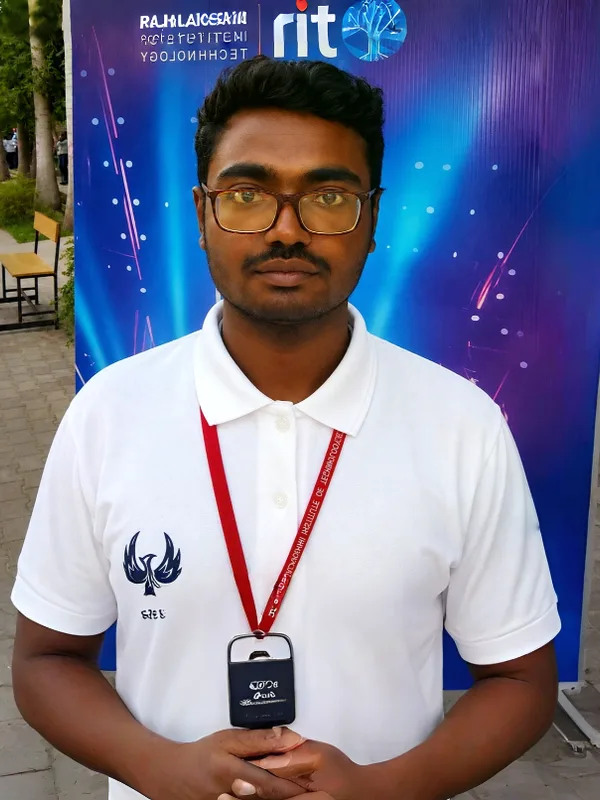
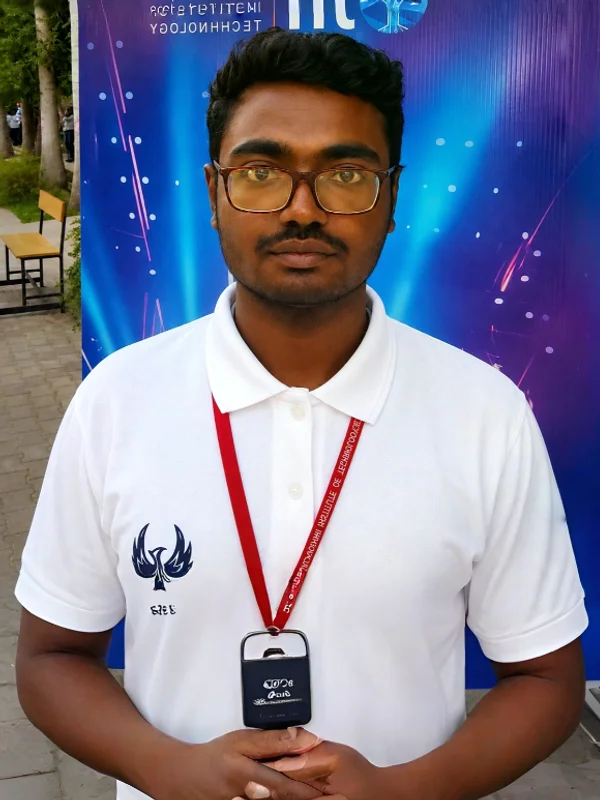
fix(members): resolve mobile card overflow and image alignment issues

diff --git a/src/components/CoreMembers.tsx b/src/components/CoreMembers.tsx
@@ -150,7 +150,7 @@ export const CoreMembers: React.FC = () => {
             </h3>
           </div>
 
-          <div className="grid grid-cols-2 sm:grid-cols-2 md:grid-cols-3 lg:grid-cols-4 xl:grid-cols-5 gap-3.5 sm:gap-4 lg:gap-5">
+          <div className="grid grid-cols-2 sm:grid-cols-2 md:grid-cols-3 lg:grid-cols-4 xl:grid-cols-5 gap-3 sm:gap-4 lg:gap-5">
             {studentMembers.map((member, idx) => {
               const roleGradient = getRoleGradient(member.domain, member.position);
               const linkedinUrl = member.linkedin || `https://www.linkedin.com/search/results/all/?keywords=${encodeURIComponent(member.name + ' Rajalakshmi Institute of Technology IETE')}`;
@@ -162,7 +162,7 @@ export const CoreMembers: React.FC = () => {
                   whileInView={{ opacity: 1, y: 0 }}
                   viewport={{ once: true }}
                   transition={{ duration: 0.35, delay: idx * 0.03 }}
-                  className="group relative rounded-2xl sm:rounded-3xl overflow-hidden bg-slate-950 border border-slate-800/90 shadow-soft hover:shadow-[0_10px_30px_-5px_rgba(59,130,246,0.3)] hover:border-blue-500/50 hover:-translate-y-1 transition-all duration-300 flex flex-col justify-between aspect-[3/3.9] min-h-[260px] sm:min-h-[290px]"
+                  className="group relative rounded-2xl sm:rounded-3xl overflow-hidden bg-slate-950 border border-slate-800/90 shadow-soft hover:shadow-[0_10px_30px_-5px_rgba(59,130,246,0.3)] hover:border-blue-500/50 hover:-translate-y-1 transition-all duration-300 flex flex-col justify-between aspect-[3/4.2] sm:aspect-[3/4.2] min-w-0 w-full"
                 >
                   {/* Portrait Canvas */}
                   <div className="absolute inset-0 overflow-hidden">
@@ -175,7 +175,7 @@ export const CoreMembers: React.FC = () => {
                       />
                     ) : (
                       /* Clean Cyber Gradient Canvas for members without photo */
-                      <div className="w-full h-full bg-gradient-to-b from-slate-900 via-slate-950 to-slate-950 relative flex flex-col items-center justify-center p-4 overflow-hidden">
+                      <div className="w-full h-full bg-gradient-to-b from-slate-900 via-slate-950 to-slate-950 relative flex flex-col items-center justify-center p-3 sm:p-4 overflow-hidden">
                         {/* Dot pattern */}
                         <div 
                           className="absolute inset-0 opacity-15 pointer-events-none"
@@ -187,9 +187,9 @@ export const CoreMembers: React.FC = () => {
 
                         {/* Central Monogram */}
                         <div className="relative z-10 flex flex-col items-center justify-center">
-                          <div className="w-16 h-16 sm:w-20 sm:h-20 rounded-2xl bg-white/10 backdrop-blur-md border border-white/15 p-1 flex items-center justify-center shadow-lg group-hover:scale-105 transition-transform duration-500">
+                          <div className="w-14 h-14 sm:w-20 sm:h-20 rounded-2xl bg-white/10 backdrop-blur-md border border-white/15 p-1 flex items-center justify-center shadow-lg group-hover:scale-105 transition-transform duration-500">
                             <div className={`w-full h-full rounded-[14px] bg-gradient-to-tr ${roleGradient} flex items-center justify-center shadow-inner`}>
-                              <span className="font-heading font-black text-xl sm:text-2xl text-white tracking-wider">
+                              <span className="font-heading font-black text-lg sm:text-2xl text-white tracking-wider">
                                 {getInitials(member.name)}
                               </span>
                             </div>
@@ -199,28 +199,28 @@ export const CoreMembers: React.FC = () => {
                     )}
 
                     {/* Subtle Top & Bottom Gradient Vignettes */}
-                    <div className="absolute inset-x-0 top-0 h-14 bg-gradient-to-b from-slate-950/40 to-transparent z-10 pointer-events-none" />
-                    <div className="absolute inset-x-0 bottom-0 h-40 bg-gradient-to-t from-slate-950 via-slate-950/85 to-transparent z-10 pointer-events-none" />
+                    <div className="absolute inset-x-0 top-0 h-10 sm:h-14 bg-gradient-to-b from-slate-950/40 to-transparent z-10 pointer-events-none" />
+                    <div className="absolute inset-x-0 bottom-0 h-28 sm:h-36 bg-gradient-to-t from-slate-950 via-slate-950/85 to-transparent z-10 pointer-events-none" />
                   </div>
 
                   {/* TOP AREA: Empty to leave faces 100% unobstructed */}
                   <div className="relative z-20" />
 
                   {/* BOTTOM IDENTITY OVERLAY: Name, Role, Department & LinkedIn */}
-                  <div className="relative z-20 p-3.5 sm:p-4 space-y-1.5 sm:space-y-2">
+                  <div className="relative z-20 p-2.5 sm:p-4 space-y-1 sm:space-y-1.5">
                     {/* Name & Role */}
                     <div className="space-y-0.5">
-                      <h4 className="font-heading font-black text-sm sm:text-base text-white uppercase tracking-wider leading-tight drop-shadow-[0_2px_8px_rgba(0,0,0,0.9)] group-hover:text-cyan-200 transition-colors line-clamp-1">
+                      <h4 className="font-heading font-black text-xs sm:text-base text-white uppercase tracking-wider leading-tight drop-shadow-[0_2px_8px_rgba(0,0,0,0.9)] group-hover:text-cyan-200 transition-colors truncate">
                         {member.name}
                       </h4>
-                      <p className="text-[10px] sm:text-[11px] font-extrabold uppercase tracking-wider text-cyan-400 drop-shadow-[0_1px_4px_rgba(0,0,0,0.9)] truncate">
+                      <p className="text-[9px] sm:text-[11px] font-extrabold uppercase tracking-wider text-cyan-400 drop-shadow-[0_1px_4px_rgba(0,0,0,0.9)] truncate">
                         {member.position}
                       </p>
                     </div>
 
                     {/* Department Badge & LinkedIn Button */}
-                    <div className="flex items-center justify-between gap-1.5 pt-1 border-t border-white/10">
-                      <span className="text-[10px] font-semibold text-slate-200 bg-white/10 backdrop-blur-md px-2.5 py-0.5 rounded-full border border-white/15 shadow-sm truncate max-w-[125px]">
+                    <div className="flex items-center justify-between gap-1.5 pt-1 border-t border-white/10 min-w-0">
+                      <span className="text-[9px] sm:text-[10px] font-semibold text-slate-200 bg-white/10 backdrop-blur-md px-2 sm:px-2.5 py-0.5 rounded-full border border-white/15 shadow-sm truncate flex-1 min-w-0">
                         {member.department}
                       </span>
                       {linkedinUrl && (
@@ -228,10 +228,10 @@ export const CoreMembers: React.FC = () => {
                           href={linkedinUrl}
                           target="_blank"
                           rel="noopener noreferrer"
-                          className="w-7 h-7 rounded-lg bg-white/10 hover:bg-[#0A66C2] text-sky-400 hover:text-white border border-white/15 backdrop-blur-md flex items-center justify-center shrink-0 transition-all duration-200 shadow-sm hover:shadow-[0_0_10px_rgba(10,102,194,0.6)]"
+                          className="w-6 h-6 sm:w-7 sm:h-7 rounded-lg bg-white/10 hover:bg-[#0A66C2] text-sky-400 hover:text-white border border-white/15 backdrop-blur-md flex items-center justify-center shrink-0 transition-all duration-200 shadow-sm hover:shadow-[0_0_10px_rgba(10,102,194,0.6)]"
                           title={`LinkedIn profile of ${member.name}`}
                         >
-                          <Linkedin className="w-3 h-3 fill-current" />
+                          <Linkedin className="w-2.5 h-2.5 sm:w-3 sm:h-3 fill-current" />
                         </a>
                       )}
                     </div>

diff --git a/index.html b/index.html
@@ -379,7 +379,7 @@
           "publisher": {
             "@id": "https://iete-rit.vercel.app/#organization"
           },
-          "image": "https://iete-rit.vercel.app/images/events/iete-office-bearers-inauguration.jpg",
+          "image": "https://iete-rit.vercel.app/images/events/iete-office-bearers-inauguration.webp",
           "url": "https://iete-rit.vercel.app/blog/iete-inauguration-2026",
           "mainEntityOfPage": {
             "@type": "WebPage",
@@ -403,7 +403,7 @@
           "publisher": {
             "@id": "https://iete-rit.vercel.app/#organization"
           },
-          "image": "https://iete-rit.vercel.app/images/events/vision-of-skill-2026.jpg",
+          "image": "https://iete-rit.vercel.app/images/events/vision-of-skill-2026.webp",
           "url": "https://iete-rit.vercel.app/blog/vision-of-skill-2026",
           "mainEntityOfPage": {
             "@type": "WebPage",
@@ -427,7 +427,7 @@
           "publisher": {
             "@id": "https://iete-rit.vercel.app/#organization"
           },
-          "image": "https://iete-rit.vercel.app/images/events/energize-2026.jpg",
+          "image": "https://iete-rit.vercel.app/images/events/energize-2026.webp",
           "url": "https://iete-rit.vercel.app/blog/energize-2026-hackathon",
           "mainEntityOfPage": {
             "@type": "WebPage",
@@ -451,7 +451,7 @@
           "publisher": {
             "@id": "https://iete-rit.vercel.app/#organization"
           },
-          "image": "https://iete-rit.vercel.app/images/events/higher-ed-pathways.jpg",
+          "image": "https://iete-rit.vercel.app/images/events/higher-ed-pathways.webp",
           "url": "https://iete-rit.vercel.app/blog/higher-education-opportunities-career-pathways",
           "mainEntityOfPage": {
             "@type": "WebPage",

diff --git a/src/data/siteConfig.ts b/src/data/siteConfig.ts
@@ -592,7 +592,7 @@ export const SITE_CONFIG = {
       department: "Dept. of ECE",
       year: "Student Office Bearer",
       photo: "/images/members/barath.webp",
-      blurHash: "LIJa~G~o01.R00Ri%2IV00IU-;X9",
+      blurHash: "LCKBRV~V00?t00ouxHIU00IT?vX8",
       handle: "@barathr",
       domain: "tech",
       status: "Active",

diff --git a/SEO_OPTIMIZATION_BLUEPRINT.md b/SEO_OPTIMIZATION_BLUEPRINT.md
@@ -349,7 +349,7 @@ Place in `public/sitemap.xml`. Notice the `<image:image>` extension: this enable
     <changefreq>daily</changefreq>
     <priority>1.0</priority>
     <image:image>
-      <image:loc>{{SITE_URL}}/logo.png</image:loc>
+      <image:loc>{{LOGO_URL}}</image:loc>
       <image:title>{{SITE_NAME}} Official Logo</image:title>
       <image:caption>Official logo of {{SITE_FULL_NAME}}</image:caption>
     </image:image>
@@ -367,7 +367,7 @@ Place in `public/sitemap.xml`. Notice the `<image:image>` extension: this enable
     <changefreq>daily</changefreq>
     <priority>0.98</priority>
     <image:image>
-      <image:loc>{{SITE_URL}}/logo.png</image:loc>
+      <image:loc>{{LOGO_URL}}</image:loc>
       <image:title>{{SITE_NAME}} Event Reports &amp; Knowledge Hub</image:title>
       <image:caption>Archive of workshops, hackathons, and technical symposiums</image:caption>
     </image:image>
@@ -408,7 +408,7 @@ Allow: /images/
 Allow: /assets/
 Allow: /site.webmanifest
 Allow: /favicon.svg
-Allow: /logo.png
+Allow: /iete-logo.png
 
 # Fast crawl allowance for major search engines
 User-agent: Googlebot
@@ -521,7 +521,7 @@ If deploying on **Vercel** (`vercel.json`), **Netlify** (`netlify.toml`), or **N
       ]
     },
     {
-      "source": "/(logo.png|favicon.svg|site.webmanifest)",
+      "source": "/(iete-logo.png|favicon.svg|site.webmanifest)",
       "headers": [
         { "key": "Cache-Control", "value": "public, max-age=86400, stale-while-revalidate=604800" }
       ]
